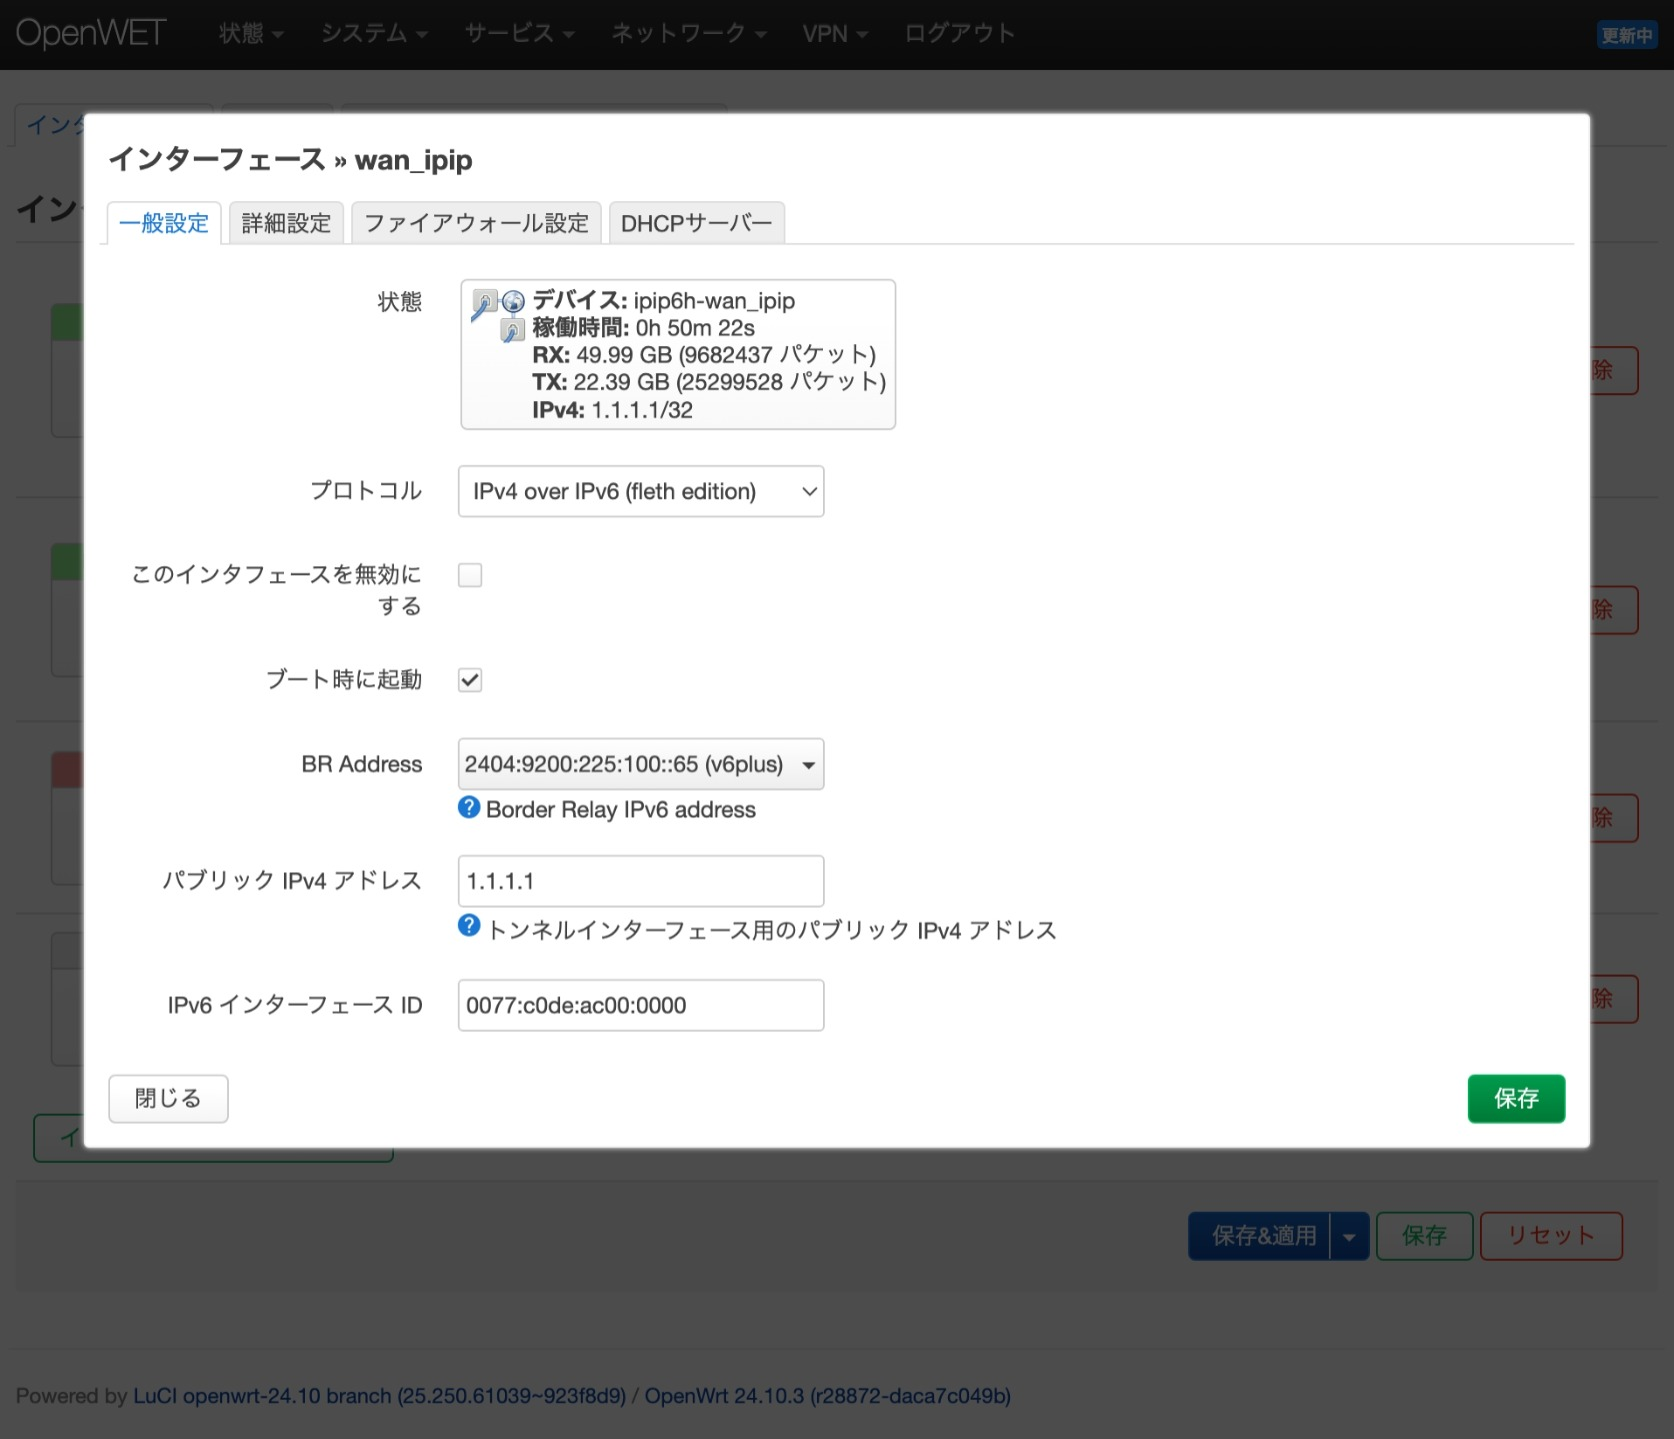
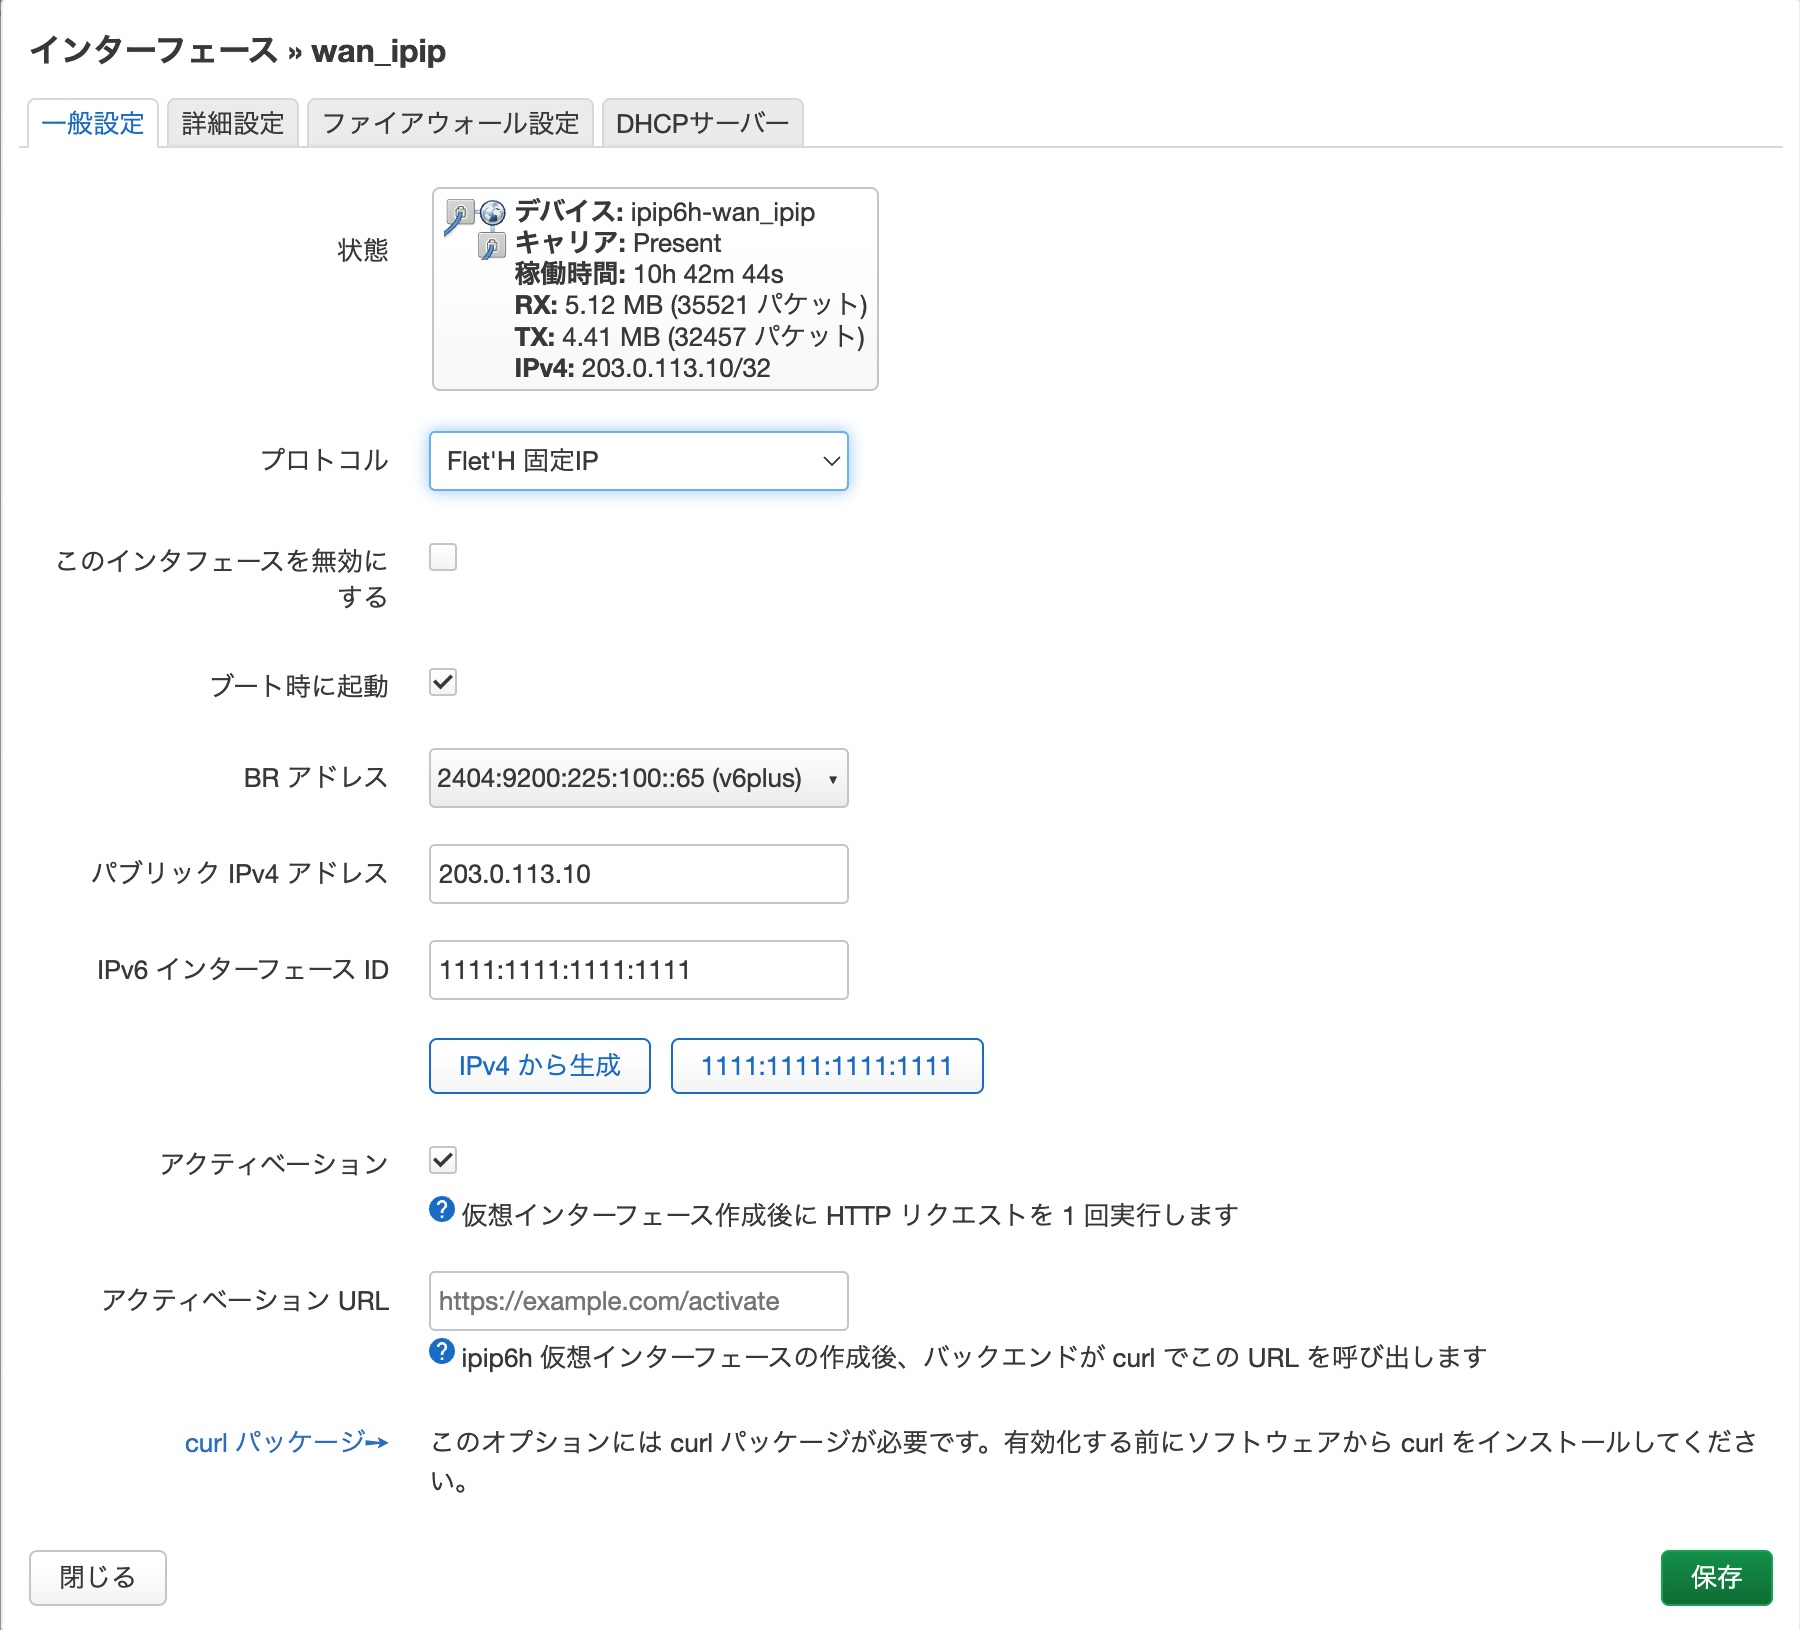
Add APK remote signing design documentation and update screenshots

diff --git a/docs/apk-remote-signing.md b/docs/apk-remote-signing.md
@@ -1,0 +1,175 @@
+# APK Remote Signing Design
+
+This note describes the planned remote signing flow for `.apk` release artifacts
+and APK repository indexes. The goal is to keep the private signing key outside
+GitHub Actions.
+
+## Goals
+
+- GitHub Actions builds packages and repository indexes, but never stores the
+  APK private key.
+- A signing server receives only the bytes that must be signed, or their
+  canonical digest, and returns the signature.
+- CI assembles the final signed `.apk` / `APKINDEX.tar.gz` artifacts locally.
+- The same signing key can be trusted by users through a published public key.
+
+## Non-Goals
+
+- The signer does not build packages.
+- The signer does not upload GitHub releases.
+- The signer does not receive package repository credentials.
+- The first version does not need HSM/KMS integration, but the API should allow
+  moving the private key there later.
+
+## Signing Model
+
+Use a split flow:
+
+1. CI builds an unsigned `.apk`.
+2. CI extracts the apk-tools signing payload.
+3. CI sends the payload, or a canonical digest of it, to the signing server.
+4. The signing server validates the request and signs with the configured key.
+5. CI receives the raw signature and public key name.
+6. CI injects the signature block into the `.apk`.
+7. CI verifies the signed package with apk-tools before upload.
+
+The same model applies to `APKINDEX.tar.gz`. Repository publishing must sign the
+index as well as package files.
+
+## API Sketch
+
+### `POST /v1/sign/apk`
+
+Request:
+
+```json
+{
+  "key_id": "fleth-2026",
+  "algorithm": "rsa-sha256",
+  "artifact_name": "luci-app-fleth-0.23-r1.apk",
+  "artifact_sha256": "hex sha256 of the unsigned apk",
+  "payload_sha256": "hex sha256 of the signing payload",
+  "payload": "base64 signing payload"
+}
+```
+
+Response:
+
+```json
+{
+  "key_id": "fleth-2026",
+  "public_key_name": "fleth-2026.rsa.pub",
+  "algorithm": "rsa-sha256",
+  "signature": "base64 raw signature"
+}
+```
+
+### `POST /v1/sign/apkindex`
+
+Use the same shape, with `artifact_name` set to `APKINDEX.tar.gz`.
+
+## CI Responsibilities
+
+- Build the `.apk` package.
+- Build `APKINDEX.tar.gz` when publishing an APK repository.
+- Extract canonical signing payloads.
+- Call the signing server.
+- Assemble signed artifacts.
+- Verify signatures with the public key.
+- Upload only verified signed outputs.
+
+CI should fail closed:
+
+- Missing `APK_SIGNER_URL` in release jobs should fail, not publish unsigned APKs.
+- Signer HTTP failures should fail the job.
+- Verification failures should fail the job.
+- Empty package matches should fail the job.
+
+## Signer Responsibilities
+
+- Keep the APK private key local.
+- Authenticate CI requests.
+- Validate request metadata.
+- Sign only supported algorithms and key IDs.
+- Record an audit log:
+  - artifact name
+  - artifact sha256
+  - payload sha256
+  - key id
+  - caller identity
+  - timestamp
+- Return only signature material and public key name.
+
+The signer should reject obviously unsafe requests:
+
+- Unknown key ID.
+- Unsupported algorithm.
+- Missing artifact or payload hashes.
+- Payload hash mismatch.
+- Re-signing the same artifact version without an explicit override policy.
+
+## Authentication
+
+Recommended order:
+
+1. mTLS between GitHub Actions runner and signer, if practical.
+2. Short-lived bearer token stored in GitHub Actions secrets.
+3. Source IP allowlist as an additional control, not the only control.
+
+Every request should include an idempotency key, for example:
+
+```text
+<github-run-id>/<matrix-target>/<artifact-name>
+```
+
+## Public Key Distribution
+
+Publish the signer public key next to the APK repository, for example:
+
+```text
+repo/apk/fleth-2026.rsa.pub
+repo/apk/APKINDEX.tar.gz
+repo/apk/luci-app-fleth-0.23-r1.apk
+```
+
+Users then install or trust that public key according to the target OpenWrt APK
+workflow.
+
+## Repository Layout
+
+Keep package formats separate:
+
+```text
+repo/
+  opkg/
+    Packages
+    Packages.gz
+    luci-app-fleth_0.23_all.ipk
+    luci-i18n-fleth-*.ipk
+
+  apk/
+    fleth-2026.rsa.pub
+    APKINDEX.tar.gz
+    luci-app-fleth-0.23-r1.apk
+    luci-i18n-fleth-*.apk
+```
+
+## Open Questions
+
+- Confirm the exact apk-tools payload extraction and signature block format.
+- Decide whether CI sends raw signing payload bytes or only the digest.
+- Decide how to sign `APKINDEX.tar.gz` with the same remote API.
+- Decide whether the signer should enforce version uniqueness.
+- Decide public key rotation policy and naming.
+
+## Implementation Plan
+
+1. Create local scripts:
+   - `scripts/apk-sign-prepare`
+   - `scripts/apk-sign-attach`
+   - `scripts/apk-sign-verify`
+2. Validate scripts against a known signed APK.
+3. Implement the signer endpoint with a local file key.
+4. Add CI integration behind `APK_SIGNER_URL` and `APK_SIGNER_TOKEN`.
+5. Require signing for tagged release jobs.
+6. Add APK repository index signing after package signing works.

diff --git a/readme.md b/readme.md
@@ -87,7 +87,7 @@ https://qiita.com/site_u/items/b6d5097f5e3a0f91c95d
 
 # スクリーンショット
 ![information](./screenshots/luci-information-3.jpeg)  
-![configuration](./screenshots/luci-configuration-3.jpeg)  
+![luci-proto-fleth](./screenshots/luci-proto-fleth.jpeg)  
 ![tools](./screenshots/luci-tools-1.jpeg)  
 ![luci-proto-ipip6h](./screenshots/luci-proto-ipip6h.jpeg)  
 ![firewall-port-forward-hook-1](./screenshots/firewall-port-forward-hook-1.png)

diff --git a/readme-en.md b/readme-en.md
@@ -88,7 +88,7 @@ https://qiita.com/site_u/items/b6d5097f5e3a0f91c95d
 
 # Screenshots
 ![information](./screenshots/luci-information-3.jpeg)  
-![configuration](./screenshots/luci-configuration-3.jpeg)  
+![luci-proto-fleth](./screenshots/luci-proto-fleth.jpeg)  
 ![tools](./screenshots/luci-tools-1.jpeg)  
 ![luci-proto-ipip6h](./screenshots/luci-proto-ipip6h.jpeg)  
 ![firewall-port-forward-hook-1](./screenshots/firewall-port-forward-hook-1.png)

diff --git a/readme-zhs.md b/readme-zhs.md
@@ -87,7 +87,7 @@ https://qiita.com/site_u/items/b6d5097f5e3a0f91c95d
 
 # 截图
 ![information](./screenshots/luci-information-3.jpeg)  
-![configuration](./screenshots/luci-configuration-3.jpeg)  
+![luci-proto-fleth](./screenshots/luci-proto-fleth.jpeg)  
 ![tools](./screenshots/luci-tools-1.jpeg)  
 ![luci-proto-ipip6h](./screenshots/luci-proto-ipip6h.jpeg)  
 ![firewall-port-forward-hook-1](./screenshots/firewall-port-forward-hook-1.png)
